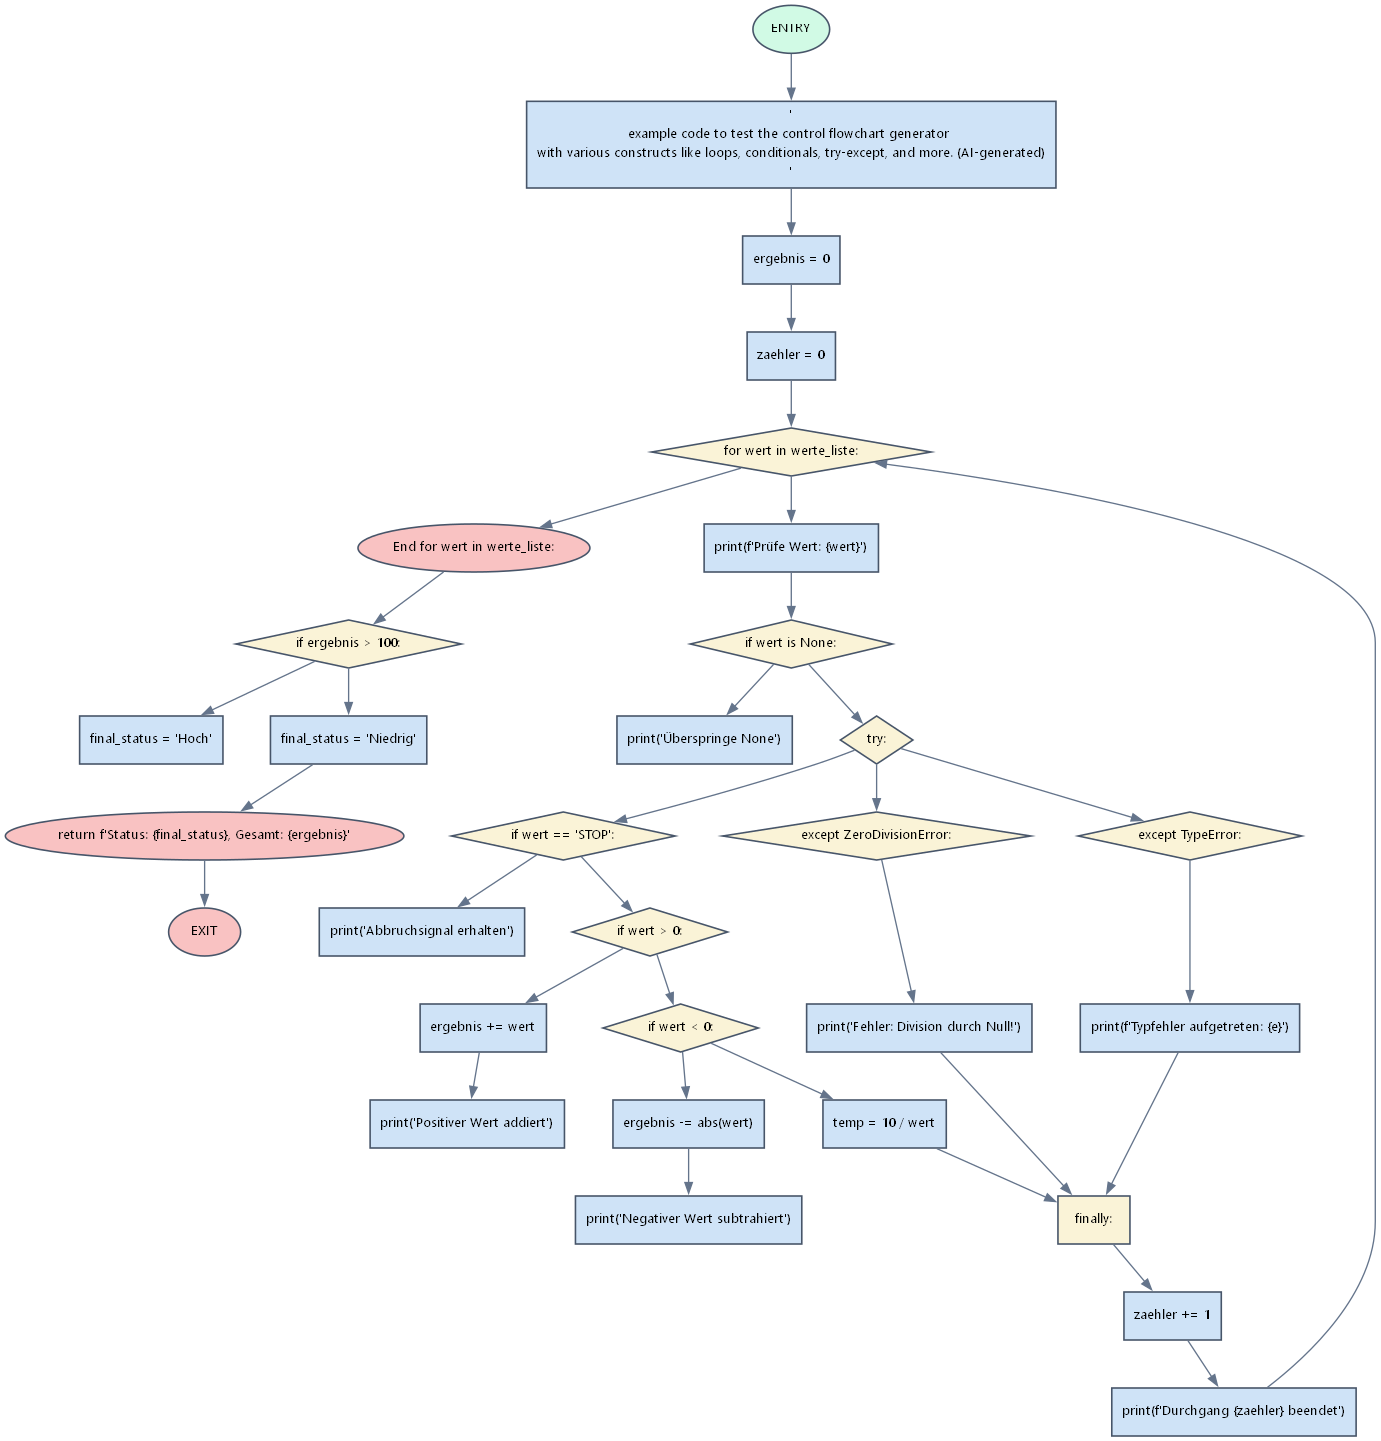
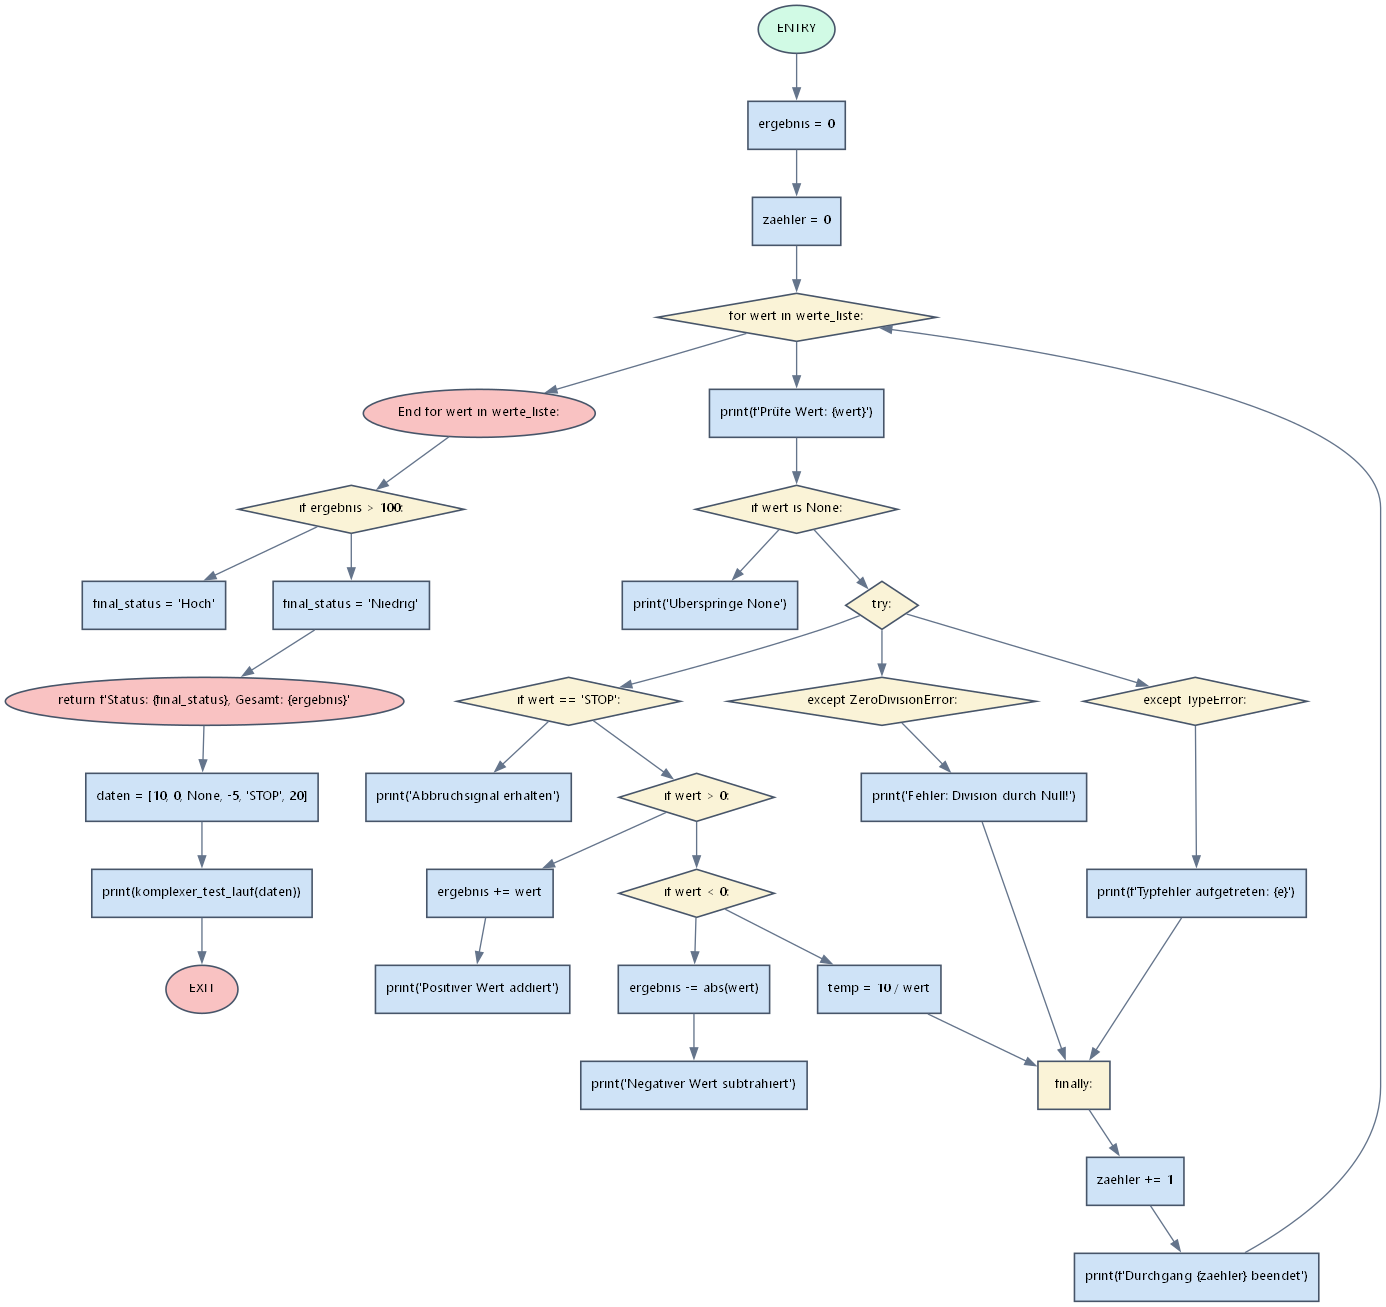
last changes

diff --git a/app/Parser.py b/app/Parser.py
@@ -1,8 +1,8 @@
 import ast
 from typing import List, Tuple, Optional
 
-
 class CFGNode:
+    """Represents a single point (node) in the program's execution flow."""
     _id_counter = 0
 
     def __init__(self, label: str):
@@ -14,34 +14,47 @@ class CFGNode:
         return f"Node({self.id}: {self.label})"
 
 class CFGBuilder(ast.NodeVisitor):
+    """
+    Analyzes Python code and builds a network of nodes and edges 
+    representing the program's logical control flow.
+    """
 
     def __init__(self):
         self.nodes: List[CFGNode] = []
         self.edges: List[Tuple[CFGNode, CFGNode]] = []
-
+        # 'current' tracks the node from which the next connection will start
         self.current: Optional[CFGNode] = None
-        self.loop_stack: List[CFGNode] = []  # for break/continue targets
+        # stack to handle loop exit points (crucial for break/continue logic)
+        self.loop_stack: List[CFGNode] = [] 
 
     def new_node(self, label: str) -> CFGNode:
+        """Creates a new node and adds it to the list of total nodes."""
         node = CFGNode(label)
         self.nodes.append(node)
         return node
 
     def connect(self, src: Optional[CFGNode], dst: CFGNode):
+        """Creates a directed edge between two nodes."""
         if src is not None:
             self.edges.append((src, dst))
 
-    # entry
     def build(self, tree: ast.AST):
+        """
+        Main entry point: Initializes the ENTRY node, 
+        traverses the tree, and concludes with the EXIT node.
+        """
         entry = self.new_node("ENTRY")
         self.current = entry
 
+        # Start the recursive traversal of the Abstract Syntax Tree (AST)
         self.visit(tree)
 
+        # Connect the final processed statement to the EXIT node
         exit_node = self.new_node("EXIT")
         if self.current is not None:
             self.connect(self.current, exit_node)
         else:
+            # Fallback for empty bodies or early returns
             if self.nodes:
                 last_node = self.nodes[-2] 
                 self.connect(last_node, exit_node)
@@ -49,86 +62,84 @@ class CFGBuilder(ast.NodeVisitor):
         return self.nodes, self.edges
     
     def visit_Module(self, node: ast.Module):
+        """Visits every statement in the main Python module."""
         for stmt in node.body:
             self.visit(stmt)
 
     def generic_statement(self, node, label=None):
-        # if there's no label given, choose code instead
+        """Helper for standard statements (assignments, expressions, etc.)."""
+        # ast.unparse converts the AST node back into readable Python code
         display_label = label if label else ast.unparse(node)
         stmt_node = self.new_node(display_label)
         self.connect(self.current, stmt_node)
+        # The new statement becomes the starting point for the next one
         self.current = stmt_node
 
     def visit_Assign(self, node: ast.Assign):
         self.generic_statement(node)
         
     def visit_AugAssign(self, node: ast.AugAssign):
-        # for operations like 'index += 1'
+        # Handles operations like 'index += 1'
         self.generic_statement(node)
 
     def visit_Expr(self, node: ast.Expr):
         self.generic_statement(node)
 
     def visit_Return(self, node: ast.Return):
+        """Creates a node for return statements and connects it."""
         display_label = f"return {ast.unparse(node.value)}" if node.value else "return"
         return_node = self.new_node(display_label)
         self.connect(self.current, return_node)
         self.current = return_node
 
-    # ---------- IF ----------
+    # ---------- IF STATEMENTS ----------
 
     def visit_If(self, node: ast.If):
+        """Handles branching logic by creating divergent paths."""
         condition_text = f"if {ast.unparse(node.test)}:"
         if_node = self.new_node(condition_text)
         self.connect(self.current, if_node)
         
+        # Path 1: If condition is True (body)
         self.current = if_node
         for stmt in node.body:
             self.visit(stmt)
         then_end = self.current
 
+        # Path 2: If condition is False (orelse)
         self.current = if_node
         for stmt in node.orelse:
             self.visit(stmt)
         else_end = self.current
 
-        """
-        merge = self.new_node("Merge")
-
-        if then_end:
-            self.connect(then_end, merge)
-        if else_end:
-            self.connect(else_end, merge)
-
-        self.current = merge """
-
-    # ---------- WHILE ----------
+    # ---------- WHILE LOOPS ----------
     def visit_While(self, node: ast.While):
-        # Bedingung extrahieren, z.B. "while x < 10:"
+        """Handles while loops by creating a cycle back to the condition."""
         condition_text = f"while {ast.unparse(node.test)}:"
         while_node = self.new_node(condition_text)
         self.connect(self.current, while_node)
 
+        # Node representing the point where the loop is finished/exited
         loop_exit = self.new_node(f"End {condition_text}")
         self.loop_stack.append(loop_exit)
 
-        # Body
+        # Process the loop body
         self.current = while_node
         for stmt in node.body:
             self.visit(stmt)
 
-        # Rückkante zur Bedingung
+        # Back-edge: After the body, flow returns to the condition check
         if self.current:
             self.connect(self.current, while_node)
 
-        # Exit-Kante (wenn Bedingung falsch ist)
+        # Exit-edge: Triggered when the condition evaluates to False
         self.connect(while_node, loop_exit)
         self.loop_stack.pop()
         self.current = loop_exit
 
-    # ---------- FOR ----------
+    # ---------- FOR LOOPS ----------
     def visit_For(self, node: ast.For):
-        # Wichtig: "for " am Anfang für die Erkennung im Builder
+        """Handles for loops similarly to while loops with iteration back-edges."""
         for_text = f"for {ast.unparse(node.target)} in {ast.unparse(node.iter)}:"
         for_node = self.new_node(for_text)
         self.connect(self.current, for_node)
@@ -136,43 +147,52 @@ class CFGBuilder(ast.NodeVisitor):
         loop_exit = self.new_node(f"End {for_text}")
         self.loop_stack.append(loop_exit)
 
+        # Process the loop body
         self.current = for_node
         for stmt in node.body:
             self.visit(stmt)
 
+        # Back-edge to the header for the next iteration
         if self.current:
             self.connect(self.current, for_node)
 
+        # Final edge to the exit node
         self.connect(for_node, loop_exit)
         self.loop_stack.pop()
         self.current = loop_exit
 
     # ---------- TRY / EXCEPT / FINALLY ----------
     def visit_Try(self, node: ast.Try):
+        """Handles error handling and merges all paths into the 'finally' block."""
         try_node = self.new_node("try:")
         self.connect(self.current, try_node)
         
         finally_node = self.new_node("finally:")
 
+        # 1. Normal execution path (Try block)
         self.current = try_node
         for stmt in node.body:
             self.visit(stmt)
         if self.current:
             self.connect(self.current, finally_node)
 
+        # 2. Error paths (Except handlers)
         for handler in node.handlers:
             exc_label = "except"
             if handler.type:
                 exc_label += f" {ast.unparse(handler.type)}"
             except_node = self.new_node(f"{exc_label}:")
+            # Every exception path branches directly from the 'try:' node
             self.connect(try_node, except_node)
 
             self.current = except_node
             for stmt in handler.body:
                 self.visit(stmt)
+            # Every handler path merges into the 'finally' block
             if self.current:
                 self.connect(self.current, finally_node)
 
+        # 3. Final cleanup path (Finally block)
         self.current = finally_node
         for stmt in node.finalbody:
             self.visit(stmt)

diff --git a/app/Main.py b/app/Main.py
@@ -12,7 +12,6 @@ def get_input_code():
     
     user_input = input("\nInput: ").strip()
 
-    # Check if input is a valid file path
     if os.path.isfile(user_input):
         try:
             with open(user_input, "r", encoding="utf-8") as f:
@@ -21,7 +20,6 @@ def get_input_code():
             print(f"Error reading file: {e}")
             return None
     else:
-        # Multi-line input mode
         print("Direct mode: Paste your code (type 'EOF' to confirm):")
         lines = [user_input]
         while True:
@@ -38,21 +36,23 @@ def main():
         return
 
     try:
-        # Validate syntax
+        # 1. Parse the source code into an AST
         tree = ast.parse(source)
         
-        # Build logical structure
+        # 2. Extract nodes and edges for the Control Flow Graph
         parser = CFGBuilder()
         nodes, edges = parser.build(tree)
 
-        # Generate visualization
+        # 3. Create the visual graph representation
         diagram_builder = CfgDiagrammBuilder()
         graph = diagram_builder.createGraph(nodes, edges)
 
-        # Render and save
+        # 4. Render and save - view=False is critical for Docker/Headless environments
         output_file = "cfg_output"
-        graph.render("cfg_output", format="png", cleanup=True, view=False)
-        print(f"\nSuccess! Diagram saved as '{output_file}.png'.")
+        # We set view=False to prevent crashes in environments without a display
+        graph.render(output_file, format="png", cleanup=True, view=False)
+        
+        print(f"\nSuccess! Diagram saved as '{output_file}.png' in your project folder.")
         
     except SyntaxError as e:
         print(f"\n[SYNTAX ERROR]: Line {e.lineno}: {e.msg}")

diff --git a/Code.py b/Code.py
@@ -1,8 +1,3 @@
-"""
-example code to test the control flowchart generator 
-with various constructs like loops, conditionals, try-except, and more. (AI-generated)
-"""
-
 def komplexer_test_lauf(werte_liste):
     ergebnis = 0
     zaehler = 0

diff --git a/app/CfgBuilder.py b/app/CfgBuilder.py
@@ -40,7 +40,7 @@ class CfgDiagrammBuilder:
         return self.dot
 
     def _determine_shape(self, label):
-        label_lower = label.lower().strip() # strip() entfernt führende Leerzeichen
+        label_lower = label.lower().strip() 
         
         # Erweiterte Prüfung für Kontrollfluss-Keywords
         if label_lower.startswith(("if ", "while ", "for ", "try", "except")):